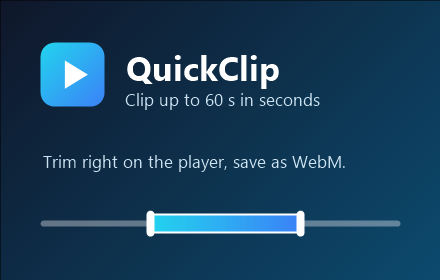
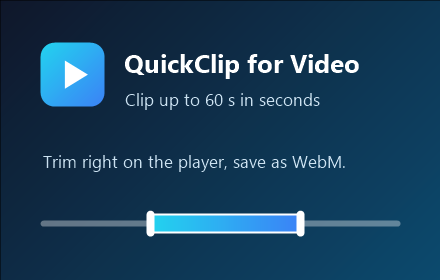
Rename to QuickClip for Video

Changed region(s): [[0.2659, 0.1714, 0.8273, 0.3143]]

diff --git a/CLAUDE.md b/CLAUDE.md
@@ -4,7 +4,7 @@ This file provides guidance to Claude Code (claude.ai/code) when working with co
 
 ## What this is
 
-A Manifest V3 Chrome/Edge extension (`QuickClip`, prototype, v0.1.0) that lets a user cut a
+A Manifest V3 Chrome/Edge extension (`QuickClip for Video`, prototype, v0.1.0) that lets a user cut a
 ≤60s clip out of a YouTube video that's currently playing and download it as WebM. No build step,
 no dependencies, no package.json — plain files loaded directly as an unpacked extension:
 

diff --git a/STORE_LISTING.md b/STORE_LISTING.md
@@ -1,7 +1,7 @@
 # Fiche Chrome Web Store
 
 ## Nom
-QuickClip
+QuickClip for Video
 
 ## Description courte (max 132 caractères)
 Découpez un extrait (60 s max) d'une vidéo pendant sa lecture et enregistrez-le en WebM, grâce à une barre de découpe intégrée au lecteur.

diff --git a/README.md b/README.md
@@ -1,4 +1,4 @@
-# QuickClip (prototype)
+# QuickClip for Video (prototype)
 
 Extension Chrome/Edge (Manifest V3) qui permet de decouper un extrait (max 60s)
 d'une video YouTube en cours de lecture et de le telecharger en WebM dans le

diff --git a/PRIVACY.md b/PRIVACY.md
@@ -1,4 +1,4 @@
-# Politique de confidentialité — QuickClip
+# Politique de confidentialité — QuickClip for Video
 
 QuickClip ne collecte, ne stocke et ne transmet aucune donnée personnelle.
 
